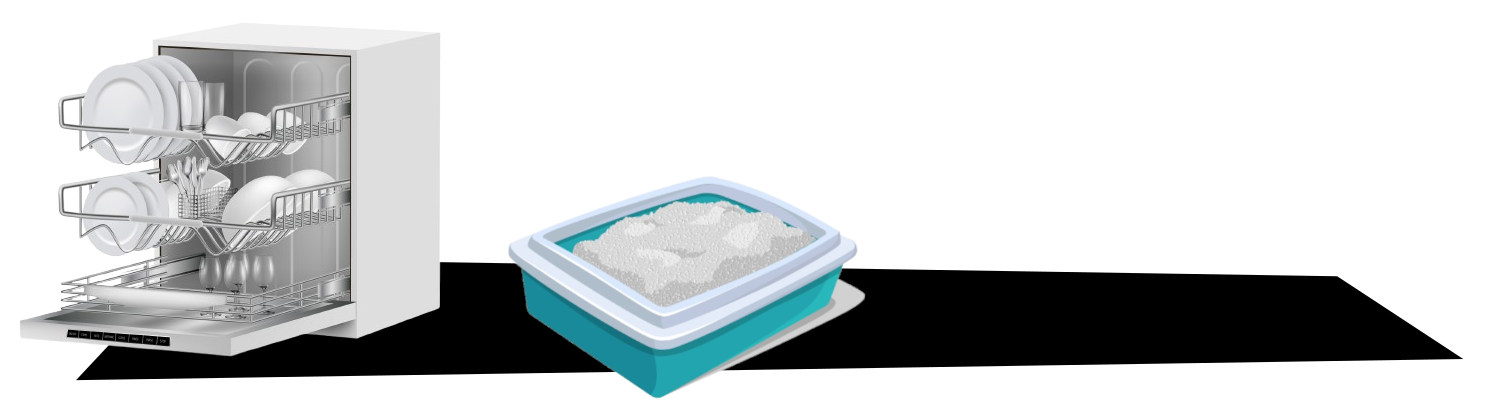
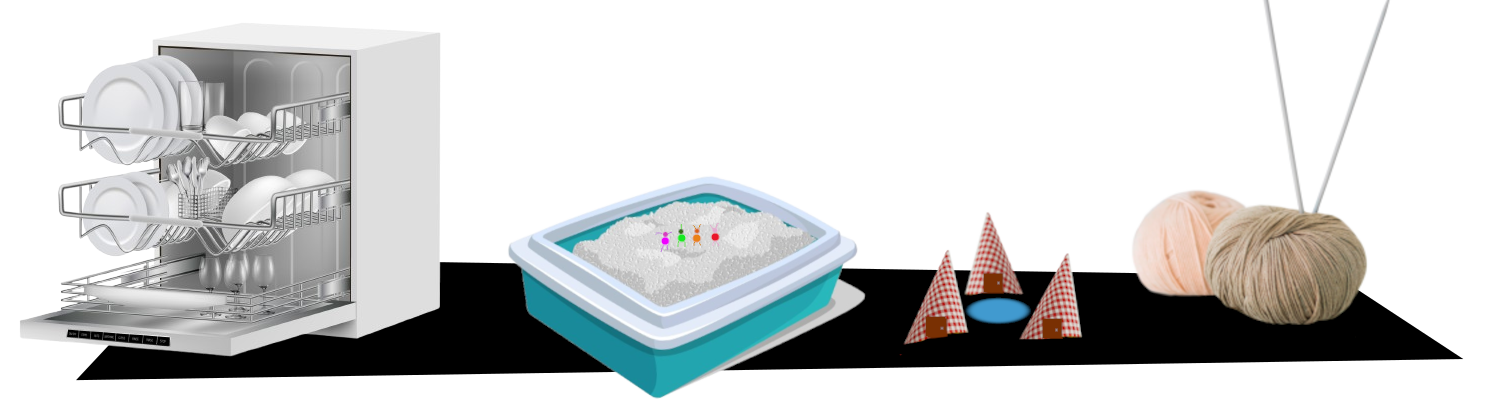
Nabuco 0.3

diff --git a/Nabucodonosorcitos/Nabucodonosorcitos.html b/Nabucodonosorcitos/Nabucodonosorcitos.html
@@ -87,6 +87,11 @@
 <p>Seamos sinceros, las aventuras de este juego no son grandes epopeyas épicas, son aventuras cortas de unas pocas sesiones como mucho. Así que aquí te ponemos unas tablas para generar semillas de aventuras, darles algunos detalles y ponerte a jugar rápidamente.</p>
 </div>
 <h3>Tabla de semillas de aventuras</h3>
+<div class="columns">
+<p>En esta tabla puedes encontrar sencillas semillas de aventuras que den inicio a la partida que vas a jugar. Como decimos siempre en este juego, pueden ser cosas muy simples, pero que para los nabucos pueden ser toda una odisea.</p>
+<p>Estas semillas están pensadas considerando que tus nabucos viven en un macetero en la ventana o en la terraza, pero son fácilmente adaptables a nabuco que vivan en otros sitios.</p>
+</div>
+<p>&nbsp;</p>
 <table>
 <thead>
 <tr>
@@ -109,19 +114,19 @@
 </tr>
 <tr>
 <td>4</td>
-<td><strong>Entretenimiento:</strong> Noche en el autocine, concierto de los XXX</td>
+<td><strong>Entretenimiento:</strong> Noche en el autocine, concierto de los Solfamidas, la feria o el circus llega al barrio.</td>
 </tr>
 <tr>
 <td>5</td>
-<td><strong>Visitas:</strong> Reciben visitas de parientes del pueblo, de un nabuco de intercambio de un país muy lejano, hacen de niñeras de unos nabuquitos, ...</td>
+<td><strong>Visitas:</strong> Reciben visitas de parientes del pueblo, de un nabuco de intercambio de un país muy lejano, hacen de niñeras de unos nabuquitos, …</td>
 </tr>
 <tr>
 <td>6</td>
-<td><strong>XXX:</strong> XXX</td>
+<td><strong>Ruin de tiempos pretéritos:</strong> Los nabucos encuentran algo realmente antiguo que no comprenden y que deben investigar para qué es. Quizás es un proyector de películas de Super8, un teléfono de dial o un tragabolas.</td>
 </tr>
 <tr>
 <td>7</td>
-<td><strong>XXX:</strong> XXX</td>
+<td><strong>Fantasmas:</strong> algo que para nosotros es normal, los nabuco lo toman como algo del más allá, fantasmas, psicofonías, caras en las paredes que en realidad han pintado los niños de la casa con rotuladores en la pared.</td>
 </tr>
 <tr>
 <td>8</td>
@@ -130,38 +135,9 @@
 </tbody>
 </table>
 <p>&nbsp;</p>
-<div class="columns">
-<p>En esta tabla puedes encontrar sencillas semillas de aventuras que den inicio a la partida que vas a jugar. Como decimos siempre en este juego, pueden ser cosas muy simples, pero que para los nabucos pueden ser toda una odisea.</p>
-<p>Estas semillas están pensadas considerando que tus nabucos viven en un macetero en la ventana o en la terraza, pero son fácilmente adaptables a nabuco que vivan en otros sitios.</p>
-</div>
 <h3>Tabla de problemas añadidos</h3>
-<table>
-<thead>
-<tr>
-<th>1d8</th>
-<th>Problemas añadidos</th>
-</tr>
-</thead>
-<tbody>
-<tr>
-<td>1</td>
-<td>Llueve, todo es peor si llueve.</td>
-</tr>
-<tr>
-<td>2</td>
-<td>Es de noche y nadie podrá ayudaros. Están todos en su casa tranquilamente cenando o viendo la tele.</td>
-</tr>
-<tr>
-<td>3</td>
-<td>XXX</td>
-</tr>
-<tr>
-<td>4</td>
-<td>XXX</td>
-</tr>
-</tbody>
-</table>
 <div class="columns">
+<p>«Si algo puede ir mal, irá mal» es una máxima que siempre se cumple en las aventuras de los nabucos. Claro que lo que es un problema para un nabuco es muy diferente a lo que podemos pensar nosotros. La lluvia, que para ti no es nada, es un problemón muy gordo para los nabucos.</p>
 </div><div class="saltopagina even"></div>
 <table>
 <thead>
@@ -172,8 +148,24 @@
 </thead>
 <tbody>
 <tr>
+<td>1</td>
+<td>Es de noche y nadie podrá ayudaros. Están todos en su casa tranquilamente cenando o viendo la tele.</td>
+</tr>
+<tr>
+<td>2</td>
+<td>Hay obras en el barrio, reasfaltar las calles, obras del metro, fuga de agua, reparan las aceras. Al final es mucho ruido, mucho movimiento de persona y vehículos, montones de grava, excavadoras, cemento fresco, …</td>
+</tr>
+<tr>
+<td>3</td>
+<td>Llueve, todo es peor si llueve.</td>
+</tr>
+<tr>
+<td>4</td>
+<td>Las letras y los números se han escapado de la librería y todo está lleno de marionetas de letras y números saltando y corriendo por todas partes y gente intentando atraparlas.</td>
+</tr>
+<tr>
 <td>5</td>
-<td>XXX</td>
+<td>Todos o casi todos los nabucos tienen <i>gipre nabuca</i>, eso supone estornudos, hipos, toses, pedos incontrolados.</td>
 </tr>
 <tr>
 <td>6</td>
@@ -181,7 +173,7 @@
 </tr>
 <tr>
 <td>7</td>
-<td>XXX</td>
+<td>Invasión de monstruos, algo pasa que todas las marionetas monstruosas están muy activas. Se dedican a dar sustos a todo el mundo, incluso a los pequeños nabucos.</td>
 </tr>
 <tr>
 <td>8</td>
@@ -191,7 +183,6 @@
 </table>
 <p>&nbsp;</p>
 <div class="columns">
-<p>«Si algo puede ir mal, irá mal» es una máxima que siempre se cumple en las aventuras de los nabucos. Claro que lo que es un problema para un nabuco es muy diferente a lo que podemos pensar nosotros. La lluvia, que para ti no es nada, es un problemón muy gordo para los nabucos.</p>
 </div>
 <h3>Tabla de eventos al azar</h3>
 <table>
@@ -238,9 +229,10 @@
 </table>
 <p>&nbsp;</p>
 <div class="columns">
+</div><div class="saltopagina odd"></div><div class='columns'>
 <p>Aquí tienes eventos al azar que pueden darle color a la aventura. Son cosas que pueden pasar en cualquier momento en el barrio y que le dan el sabor a Barrio Sésamo.</p>
 <p>Puedes tirar las que veces que sean en tu partida y pueden repetirse porque como verás es común que la gente baile y cante cada poco en el barrio.</p>
-</div><div class="saltopagina odd"></div>
+</div>
 <h3>Tabla de enemigos</h3>
 <table>
 <thead>
@@ -301,9 +293,9 @@
 <h4>Juguetes</h4>
 <p>XXX</p>
 <p>O imaginaros encontraros una versión gigante de vosotros mismos en peluche o muñeca de trapo, pues imaginaros como pueden quedarse los nabucos ante peluches de ellos mismos encima una cama.</p>
+</div><div class="saltopagina even"></div><div class='columns'>
 <h4>Lluvia de confeti</h4>
 <p>Los nabucos tienen mala memoria y se olvidan de que es el confeti, así que cada vez que cae no saben qué es y como reaccionar. A parte de confeti, otras opciones podrían ser serpentinas, espuma, pompas de jabón, … Quizás lo esquiven porque piensan que es peligroso o piensen que son seres vivos que explotan. </p>
-</div><div class="saltopagina even"></div><div class='columns'>
 <h4>Robot aspirador</h4>
 <p>XXX. También podrían ser barredoras de calles, pulidoras de suelos, …</p>
 <h4>Sensores de movimiento</h4>
@@ -353,6 +345,7 @@
 <li>Un mapa de los sistemas de tuberías de agua de brgfx de <a href="https://www.magnific.com/es/vector-gratis/mapa-sistemas-tuberias-agua_2451769.htm">Magnific</a></li>
 <li>Máquina blanca realista 3d del lavaplatos … de vectorpocket de <a href="https://www.magnific.com/es/vector-gratis/maquina-blanca-realista-3d-lavaplatos-tres-estantes-metal-llenos-placas-limpias-vidrio_2890990.htm">Magnific</a></li>
 <li>Estilo de dibujos animados tienda de mascotas supermercado ... de user15245033 de <a href="https://www.magnific.com/es/vector-gratis/estilo-dibujos-animados-tienda-mascotas-supermercado-arena-perros-gatos-casa-jugar-arbol-juguetes-herramientas-aseo-paquete-comida_11464181.htm">Magnific</a></li>
+<li>Visión del hilo para el ganchillo de <a href="https://www.magnific.com/es/psd-gratis/vision-hilo-ganchillo_206469815.htm">Magnific</a></li>
 </ul>
       </div>
     </section>

diff --git a/Nabucodonosorcitos/Tablas.md b/Nabucodonosorcitos/Tablas.md
@@ -12,19 +12,6 @@ Seamos sinceros, las aventuras de este juego no son grandes epopeyas épicas, so
 
 ### Tabla de semillas de aventuras
 
-|1d8|Semillas de aventuras|
-|---|---|
-|1|**Cuidado del macetero:** regar, arreglar o podar las plantas de macetero, buscar y esparcir abono, acabar con las plagas|
-|2|**Viaje:** Os vais de vacaciones, de pícnic al parque, a los columpios, a las piscinas|
-|3|**Limpieza:** Ir al lavadero de coches, a la lavandería, usar la manguera o la regadera|
-|4|**Entretenimiento:** Noche en el autocine, concierto de los XXX|
-|5|**Visitas:** Reciben visitas de parientes del pueblo, de un nabuco de intercambio de un país muy lejano, hacen de niñeras de unos nabuquitos, ...|
-|6|**XXX:** XXX|
-|7|**XXX:** XXX|
-|8|**Cambios en la casa:** Hay obras en la casa donde viven los nabucos o, quizás, una mudanza con los cambios que supone que se vaya gente y que venga gente nueva y desaparezcan unas cosas y aparezcan otras diferentes.|
-
-&nbsp;
-
 \conc
 
 En esta tabla puedes encontrar sencillas semillas de aventuras que den inicio a la partida que vas a jugar. Como decimos siempre en este juego, pueden ser cosas muy simples, pero que para los nabucos pueden ser toda una odisea.
@@ -33,16 +20,26 @@ Estas semillas están pensadas considerando que tus nabucos viven en un macetero
 
 \sinc
 
+&nbsp;
+
+|1d8|Semillas de aventuras|
+|---|---|
+|1|**Cuidado del macetero:** regar, arreglar o podar las plantas de macetero, buscar y esparcir abono, acabar con las plagas|
+|2|**Viaje:** Os vais de vacaciones, de pícnic al parque, a los columpios, a las piscinas|
+|3|**Limpieza:** Ir al lavadero de coches, a la lavandería, usar la manguera o la regadera|
+|4|**Entretenimiento:** Noche en el autocine, concierto de los Solfamidas, la feria o el circus llega al barrio.|
+|5|**Visitas:** Reciben visitas de parientes del pueblo, de un nabuco de intercambio de un país muy lejano, hacen de niñeras de unos nabuquitos, …|
+|6|**Ruin de tiempos pretéritos:** Los nabucos encuentran algo realmente antiguo que no comprenden y que deben investigar para qué es. Quizás es un proyector de películas de Super8, un teléfono de dial o un tragabolas.|
+|7|**Fantasmas:** algo que para nosotros es normal, los nabuco lo toman como algo del más allá, fantasmas, psicofonías, caras en las paredes que en realidad han pintado los niños de la casa con rotuladores en la pared.|
+|8|**Cambios en la casa:** Hay obras en la casa donde viven los nabucos o, quizás, una mudanza con los cambios que supone que se vaya gente y que venga gente nueva y desaparezcan unas cosas y aparezcan otras diferentes.|
+
+&nbsp;
+
 ### Tabla de problemas añadidos
 
-|1d8|Problemas añadidos|
-|---|---|
-|1|Llueve, todo es peor si llueve.|
-|2|Es de noche y nadie podrá ayudaros. Están todos en su casa tranquilamente cenando o viendo la tele.|
-|3|XXX|
-|4|XXX|
-
 \conc
+
+«Si algo puede ir mal, irá mal» es una máxima que siempre se cumple en las aventuras de los nabucos. Claro que lo que es un problema para un nabuco es muy diferente a lo que podemos pensar nosotros. La lluvia, que para ti no es nada, es un problemón muy gordo para los nabucos.
 
 \sp
 
@@ -50,16 +47,19 @@ Estas semillas están pensadas considerando que tus nabucos viven en un macetero
 
 |1d8|Problemas añadidos|
 |---|---|
-|5|XXX|
+|1|Es de noche y nadie podrá ayudaros. Están todos en su casa tranquilamente cenando o viendo la tele.|
+|2|Hay obras en el barrio, reasfaltar las calles, obras del metro, fuga de agua, reparan las aceras. Al final es mucho ruido, mucho movimiento de persona y vehículos, montones de grava, excavadoras, cemento fresco, …|
+|3|Llueve, todo es peor si llueve.|
+|4|Las letras y los números se han escapado de la librería y todo está lleno de marionetas de letras y números saltando y corriendo por todas partes y gente intentando atraparlas.|
+|5|Todos o casi todos los nabucos tienen _gipre nabuca_, eso supone estornudos, hipos, toses, pedos incontrolados.|
 |6|Es festivo nacional y todo está cerrado, o hay un gran evento y todo el mundo ha ido a verlo o está en casa delante del TV. Las calles están desiertas y los nabucos se temen lo peor.|
-|7|XXX|
+|7|Invasión de monstruos, algo pasa que todas las marionetas monstruosas están muy activas. Se dedican a dar sustos a todo el mundo, incluso a los pequeños nabucos.|
 |8|Las calles están nevadas y el suelo helado y resbaladizo. Las terrazas están llenas de nieve y de los alféizares caen carámbanos.|
 
 &nbsp;
 
 \conc
 
-«Si algo puede ir mal, irá mal» es una máxima que siempre se cumple en las aventuras de los nabucos. Claro que lo que es un problema para un nabuco es muy diferente a lo que podemos pensar nosotros. La lluvia, que para ti no es nada, es un problemón muy gordo para los nabucos.
 
 \sinc
 
@@ -80,11 +80,11 @@ Estas semillas están pensadas considerando que tus nabucos viven en un macetero
 
 \conc
 
+\sp
+
 Aquí tienes eventos al azar que pueden darle color a la aventura. Son cosas que pueden pasar en cualquier momento en el barrio y que le dan el sabor a Barrio Sésamo.
 
 Puedes tirar las que veces que sean en tu partida y pueden repetirse porque como verás es común que la gente baile y cante cada poco en el barrio.
-
-\sp
 
 \sinc
 
@@ -135,11 +135,11 @@ XXX
 
 O imaginaros encontraros una versión gigante de vosotros mismos en peluche o muñeca de trapo, pues imaginaros como pueden quedarse los nabucos ante peluches de ellos mismos encima una cama.
 
+\sp
+
 #### Lluvia de confeti
 
 Los nabucos tienen mala memoria y se olvidan de que es el confeti, así que cada vez que cae no saben qué es y como reaccionar. A parte de confeti, otras opciones podrían ser serpentinas, espuma, pompas de jabón, … Quizás lo esquiven porque piensan que es peligroso o piensen que son seres vivos que explotan. 
-
-\sp
 
 #### Robot aspirador
 

diff --git a/Nabucodonosorcitos/AccNabucodonosorcitos.md b/Nabucodonosorcitos/AccNabucodonosorcitos.md
@@ -122,19 +122,6 @@ Seamos sinceros, las aventuras de este juego no son grandes epopeyas épicas, so
 
 ### Tabla de semillas de aventuras
 
-|1d8|Semillas de aventuras|
-|---|---|
-|1|**Cuidado del macetero:** regar, arreglar o podar las plantas de macetero, buscar y esparcir abono, acabar con las plagas|
-|2|**Viaje:** Os vais de vacaciones, de pícnic al parque, a los columpios, a las piscinas|
-|3|**Limpieza:** Ir al lavadero de coches, a la lavandería, usar la manguera o la regadera|
-|4|**Entretenimiento:** Noche en el autocine, concierto de los XXX|
-|5|**Visitas:** Reciben visitas de parientes del pueblo, de un nabuco de intercambio de un país muy lejano, hacen de niñeras de unos nabuquitos, ...|
-|6|**XXX:** XXX|
-|7|**XXX:** XXX|
-|8|**Cambios en la casa:** Hay obras en la casa donde viven los nabucos o, quizás, una mudanza con los cambios que supone que se vaya gente y que venga gente nueva y desaparezcan unas cosas y aparezcan otras diferentes.|
-
-
-
 
 
 En esta tabla puedes encontrar sencillas semillas de aventuras que den inicio a la partida que vas a jugar. Como decimos siempre en este juego, pueden ser cosas muy simples, pero que para los nabucos pueden ser toda una odisea.
@@ -143,16 +130,26 @@ Estas semillas están pensadas considerando que tus nabucos viven en un macetero
 
 
 
+
+
+|1d8|Semillas de aventuras|
+|---|---|
+|1|**Cuidado del macetero:** regar, arreglar o podar las plantas de macetero, buscar y esparcir abono, acabar con las plagas|
+|2|**Viaje:** Os vais de vacaciones, de pícnic al parque, a los columpios, a las piscinas|
+|3|**Limpieza:** Ir al lavadero de coches, a la lavandería, usar la manguera o la regadera|
+|4|**Entretenimiento:** Noche en el autocine, concierto de los Solfamidas, la feria o el circus llega al barrio.|
+|5|**Visitas:** Reciben visitas de parientes del pueblo, de un nabuco de intercambio de un país muy lejano, hacen de niñeras de unos nabuquitos, …|
+|6|**Ruin de tiempos pretéritos:** Los nabucos encuentran algo realmente antiguo que no comprenden y que deben investigar para qué es. Quizás es un proyector de películas de Super8, un teléfono de dial o un tragabolas.|
+|7|**Fantasmas:** algo que para nosotros es normal, los nabuco lo toman como algo del más allá, fantasmas, psicofonías, caras en las paredes que en realidad han pintado los niños de la casa con rotuladores en la pared.|
+|8|**Cambios en la casa:** Hay obras en la casa donde viven los nabucos o, quizás, una mudanza con los cambios que supone que se vaya gente y que venga gente nueva y desaparezcan unas cosas y aparezcan otras diferentes.|
+
+
+
 ### Tabla de problemas añadidos
 
-|1d8|Problemas añadidos|
-|---|---|
-|1|Llueve, todo es peor si llueve.|
-|2|Es de noche y nadie podrá ayudaros. Están todos en su casa tranquilamente cenando o viendo la tele.|
-|3|XXX|
-|4|XXX|
 
 
+«Si algo puede ir mal, irá mal» es una máxima que siempre se cumple en las aventuras de los nabucos. Claro que lo que es un problema para un nabuco es muy diferente a lo que podemos pensar nosotros. La lluvia, que para ti no es nada, es un problemón muy gordo para los nabucos.
 
 
 
@@ -160,16 +157,19 @@ Estas semillas están pensadas considerando que tus nabucos viven en un macetero
 
 |1d8|Problemas añadidos|
 |---|---|
-|5|XXX|
+|1|Es de noche y nadie podrá ayudaros. Están todos en su casa tranquilamente cenando o viendo la tele.|
+|2|Hay obras en el barrio, reasfaltar las calles, obras del metro, fuga de agua, reparan las aceras. Al final es mucho ruido, mucho movimiento de persona y vehículos, montones de grava, excavadoras, cemento fresco, …|
+|3|Llueve, todo es peor si llueve.|
+|4|Las letras y los números se han escapado de la librería y todo está lleno de marionetas de letras y números saltando y corriendo por todas partes y gente intentando atraparlas.|
+|5|Todos o casi todos los nabucos tienen _gipre nabuca_, eso supone estornudos, hipos, toses, pedos incontrolados.|
 |6|Es festivo nacional y todo está cerrado, o hay un gran evento y todo el mundo ha ido a verlo o está en casa delante del TV. Las calles están desiertas y los nabucos se temen lo peor.|
-|7|XXX|
+|7|Invasión de monstruos, algo pasa que todas las marionetas monstruosas están muy activas. Se dedican a dar sustos a todo el mundo, incluso a los pequeños nabucos.|
 |8|Las calles están nevadas y el suelo helado y resbaladizo. Las terrazas están llenas de nieve y de los alféizares caen carámbanos.|
 
 
 
 
 
-«Si algo puede ir mal, irá mal» es una máxima que siempre se cumple en las aventuras de los nabucos. Claro que lo que es un problema para un nabuco es muy diferente a lo que podemos pensar nosotros. La lluvia, que para ti no es nada, es un problemón muy gordo para los nabucos.
 
 
 
@@ -190,11 +190,11 @@ Estas semillas están pensadas considerando que tus nabucos viven en un macetero
 
 
 
+
+
 Aquí tienes eventos al azar que pueden darle color a la aventura. Son cosas que pueden pasar en cualquier momento en el barrio y que le dan el sabor a Barrio Sésamo.
 
 Puedes tirar las que veces que sean en tu partida y pueden repetirse porque como verás es común que la gente baile y cante cada poco en el barrio.
-
-
 
 
 
@@ -245,11 +245,11 @@ XXX
 
 O imaginaros encontraros una versión gigante de vosotros mismos en peluche o muñeca de trapo, pues imaginaros como pueden quedarse los nabucos ante peluches de ellos mismos encima una cama.
 
+
+
 #### Lluvia de confeti
 
 Los nabucos tienen mala memoria y se olvidan de que es el confeti, así que cada vez que cae no saben qué es y como reaccionar. A parte de confeti, otras opciones podrían ser serpentinas, espuma, pompas de jabón, … Quizás lo esquiven porque piensan que es peligroso o piensen que son seres vivos que explotan. 
-
-
 
 #### Robot aspirador
 
@@ -340,3 +340,4 @@ Hecho bajo licencia [CC BY 4.0](https://creativecommons.org/licenses/by/4.0/lega
 * Un mapa de los sistemas de tuberías de agua de brgfx de [Magnific](https://www.magnific.com/es/vector-gratis/mapa-sistemas-tuberias-agua_2451769.htm)
 * Máquina blanca realista 3d del lavaplatos … de vectorpocket de [Magnific](https://www.magnific.com/es/vector-gratis/maquina-blanca-realista-3d-lavaplatos-tres-estantes-metal-llenos-placas-limpias-vidrio_2890990.htm)
 * Estilo de dibujos animados tienda de mascotas supermercado ... de user15245033 de [Magnific](https://www.magnific.com/es/vector-gratis/estilo-dibujos-animados-tienda-mascotas-supermercado-arena-perros-gatos-casa-jugar-arbol-juguetes-herramientas-aseo-paquete-comida_11464181.htm)
+* Visión del hilo para el ganchillo de [Magnific](https://www.magnific.com/es/psd-gratis/vision-hilo-ganchillo_206469815.htm)

diff --git a/Nabucodonosorcitos/Licencia.md b/Nabucodonosorcitos/Licencia.md
@@ -34,3 +34,4 @@ Hecho bajo licencia [CC BY 4.0](https://creativecommons.org/licenses/by/4.0/lega
 * Un mapa de los sistemas de tuberías de agua de brgfx de [Magnific](https://www.magnific.com/es/vector-gratis/mapa-sistemas-tuberias-agua_2451769.htm)
 * Máquina blanca realista 3d del lavaplatos … de vectorpocket de [Magnific](https://www.magnific.com/es/vector-gratis/maquina-blanca-realista-3d-lavaplatos-tres-estantes-metal-llenos-placas-limpias-vidrio_2890990.htm)
 * Estilo de dibujos animados tienda de mascotas supermercado ... de user15245033 de [Magnific](https://www.magnific.com/es/vector-gratis/estilo-dibujos-animados-tienda-mascotas-supermercado-arena-perros-gatos-casa-jugar-arbol-juguetes-herramientas-aseo-paquete-comida_11464181.htm)
+* Visión del hilo para el ganchillo de [Magnific](https://www.magnific.com/es/psd-gratis/vision-hilo-ganchillo_206469815.htm)